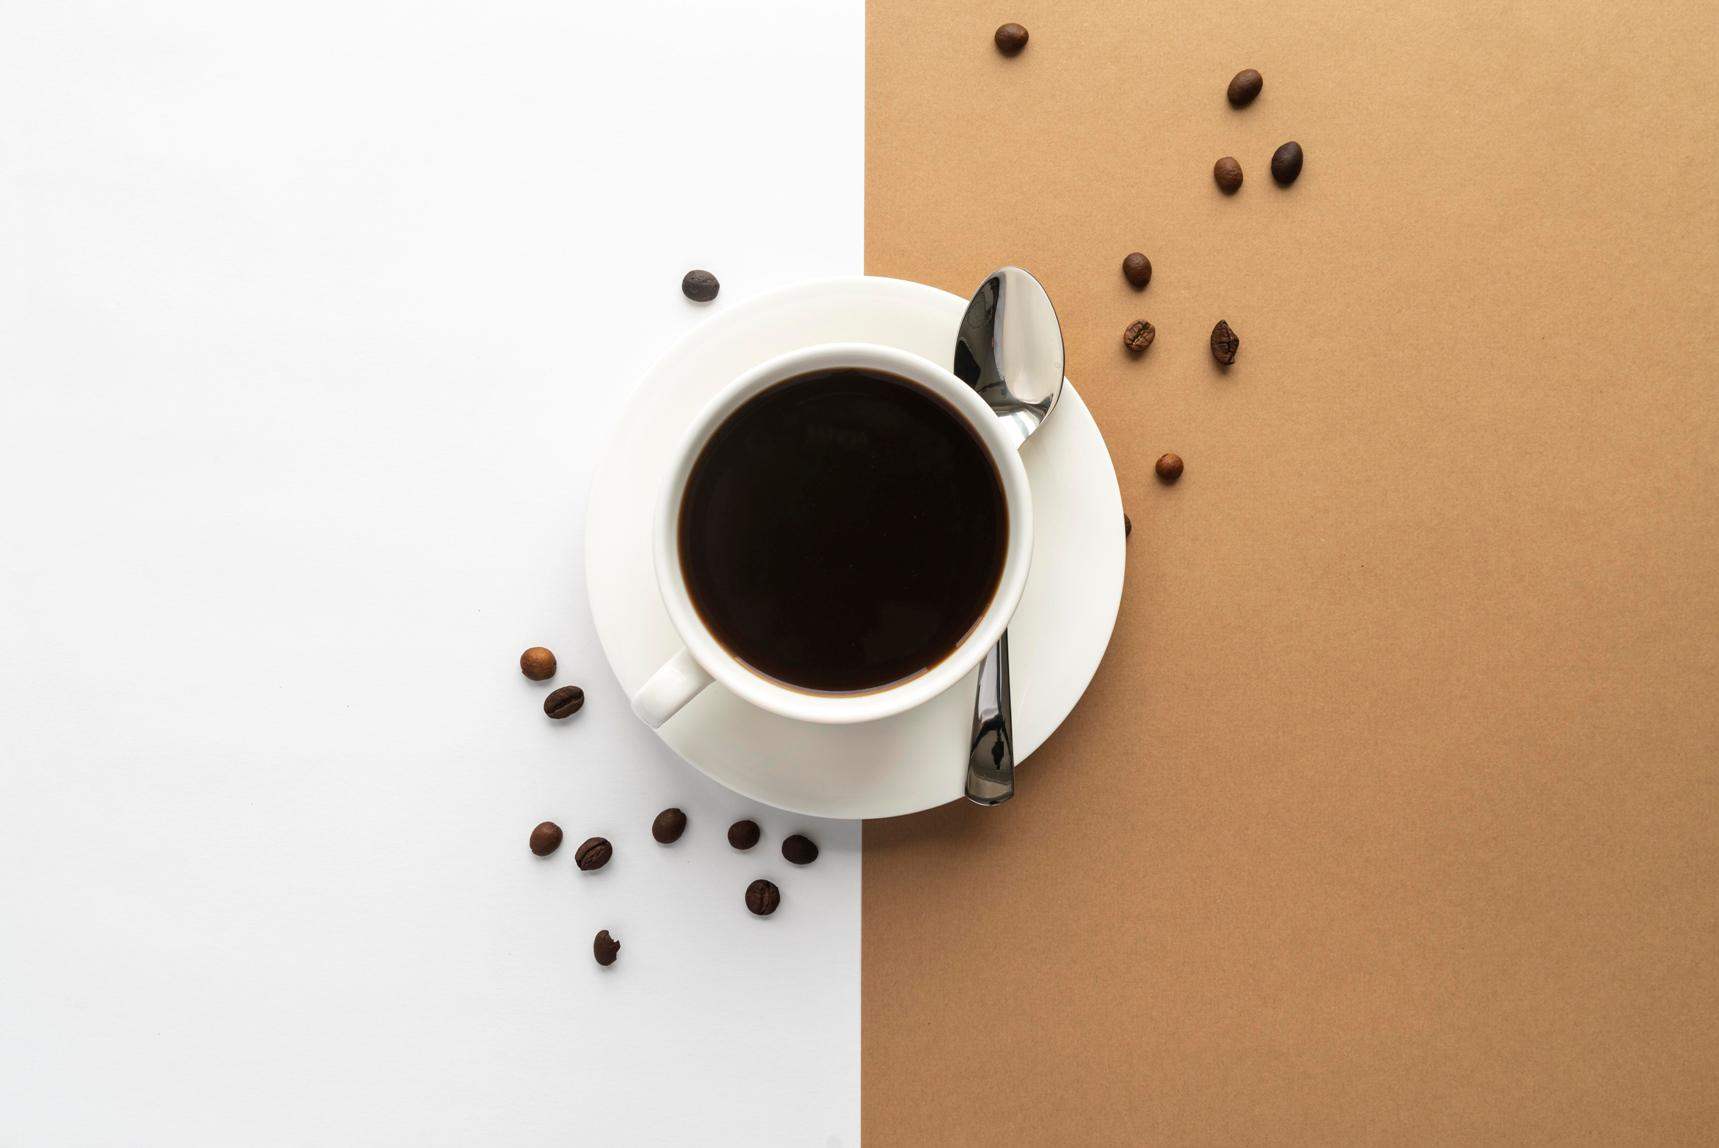
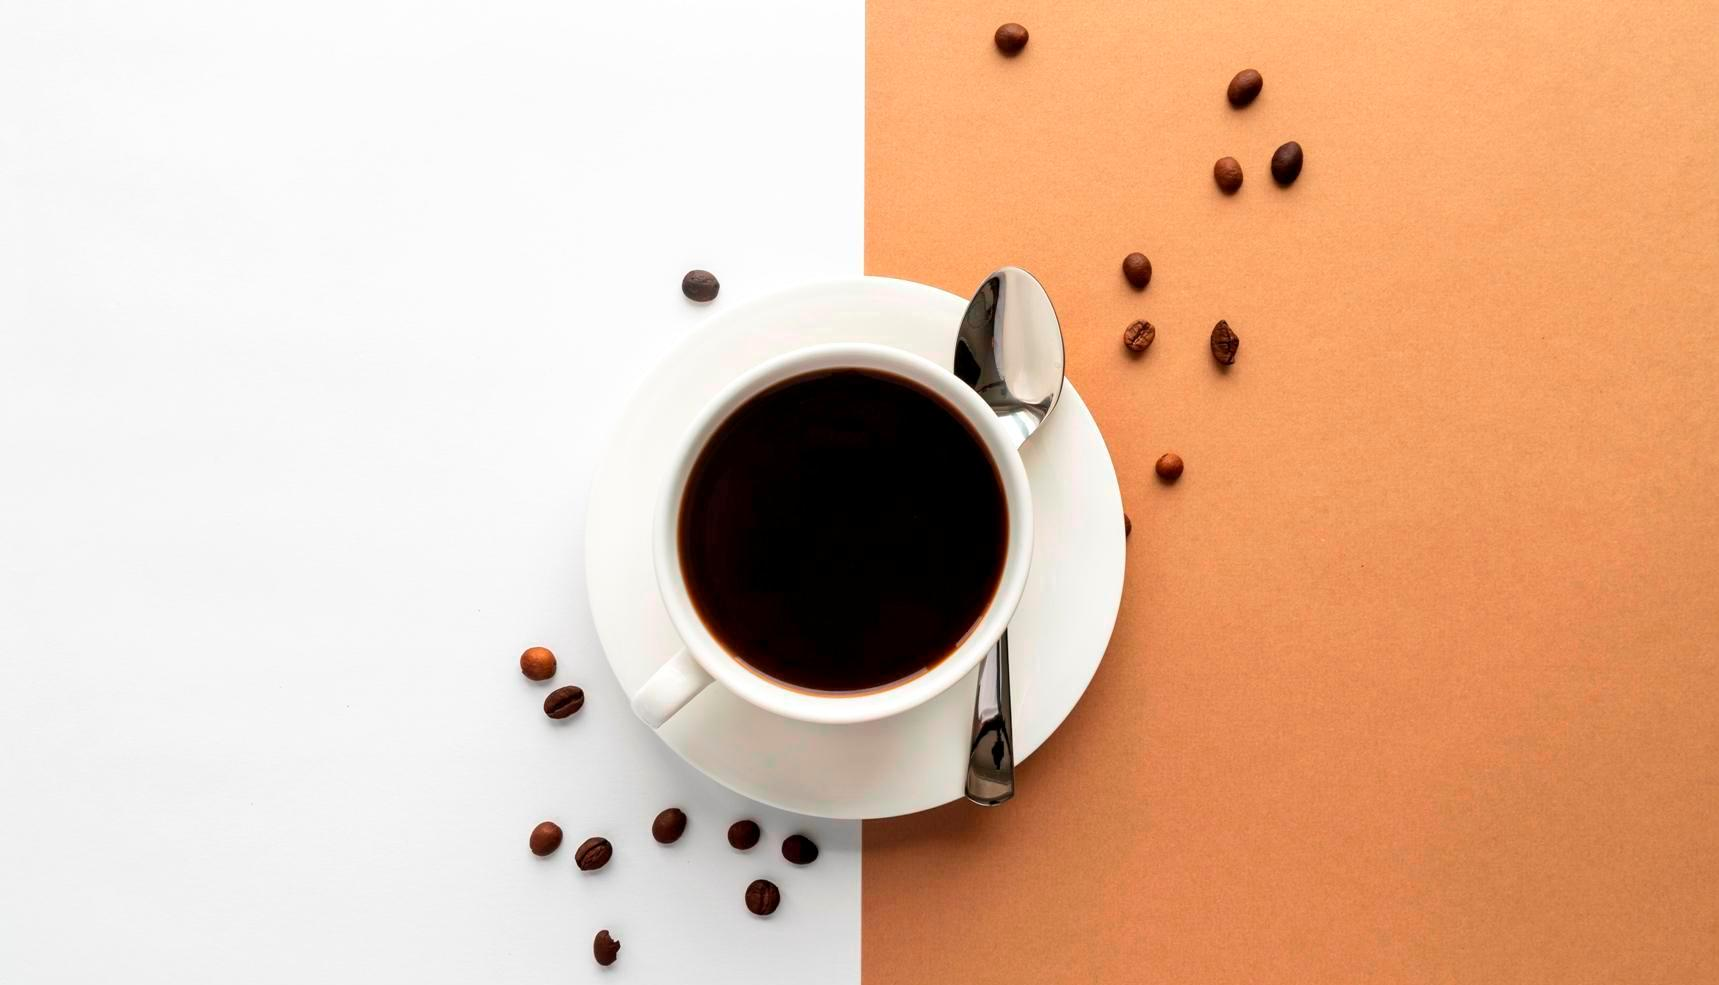
top section created

diff --git a/public/css/style.css b/public/css/style.css
@@ -7,10 +7,13 @@
 
 body {
   background-image: url(/images/header.jpg);
-  background-size: cover;
+  background-size: 100% 100vh;
+  background-repeat: no-repeat;
+  /* overflow: hidden; */
 }
 
 .header {
+  height: 25vh;
   display: flex;
   justify-content: space-between;
   align-items: center;
@@ -19,7 +22,8 @@ body {
 .logo_img {
   width: 150px;
   cursor: pointer;
-  margin-left: 25px;
+  margin-left: 45px;
+  margin-top: -25px;
 }
 
 .navbar {
@@ -45,6 +49,7 @@ body {
   border-radius: 20px;
   padding: 7px 18px;
   border: none;
+  transition: 0.6s ease-in;
 }
 
 .navbar ul li a:hover,
@@ -75,11 +80,13 @@ body {
 }
 
 .home {
+  height: 75vh;
   margin-left: 80px;
   margin-top: 80px;
   font-size: 40px;
   letter-spacing: 1px;
   line-height: 1.2;
+  color: #865439;
 }
 
 .book_menu {
@@ -96,14 +103,32 @@ body {
   letter-spacing: 1px;
   text-transform: uppercase;
   margin-top: 50px;
+  background-color: #f5e8c7;
   cursor: pointer;
-  border-radius: 10px;
-  border: 1px solid #865439;
-  box-shadow: rgba(0, 0, 0, 0.35) 0px 5px 15px;
-  transition: all 0.7s ease-in-out;
+  border-radius: 120px;
+  border: 0px solid #8f4426;
+  box-shadow: inset 0 0 0 #c68b59;
+  transition: 0.5s ease-in;
 }
 
 .book_menu button:hover {
-  background: #c68b59;
+  box-shadow: inset 150px 0 0 #8f4426;
   color: #fff;
+}
+
+.typing {
+  color: chocolate;
+  font-weight: bolder;
+}
+
+.recepie {
+  height: 100vh;
+}
+
+.review {
+  height: 100vh;
+}
+
+.random {
+  height: 80vh;
 }

diff --git a/views/index.html b/views/index.html
@@ -25,16 +25,26 @@
     </header>
 
     <section class="home" id="home">
-        <div class="home-content">
+        <div class="home_content">
             <div class="text-1">Welcome to your</div>
             <div class="text-2">one-stop coffee joint.</div>
-            <div class="text-3">Our specialities <br><span class="typing"></span></div>
+            <div class="text-3">Our specialities,<br><span class="typing"></span></div>
         </div>
         <div class="book_menu">
             <button>book now</button>
             <button>menu-card</button>
         </div>
     </section>
+
+    <article>
+        <div class="recepie">recepie</div>
+        <div class="reviews">review</div>
+        <div class="random">randon</div>
+    </article>
+
+    <footer>
+        <div class="footer_class">footer</div>
+    </footer>
 
 <script src="/js/index.js"></script>
 

diff --git a/public/js/index.js b/public/js/index.js
@@ -1,5 +1,5 @@
 var typed = new Typed(".typing", {
-    strings: ["Espresso", "Cappuccino", "Iced Latte", "Decaf", "Iced Coffee"],
+    strings: ["Espresso.", "Cappuccino.", "Iced Latte.", "Decaf.", "Iced Coffee."],
     typeSpeed: 100,
     backSpeed: 60,
     loop: true
